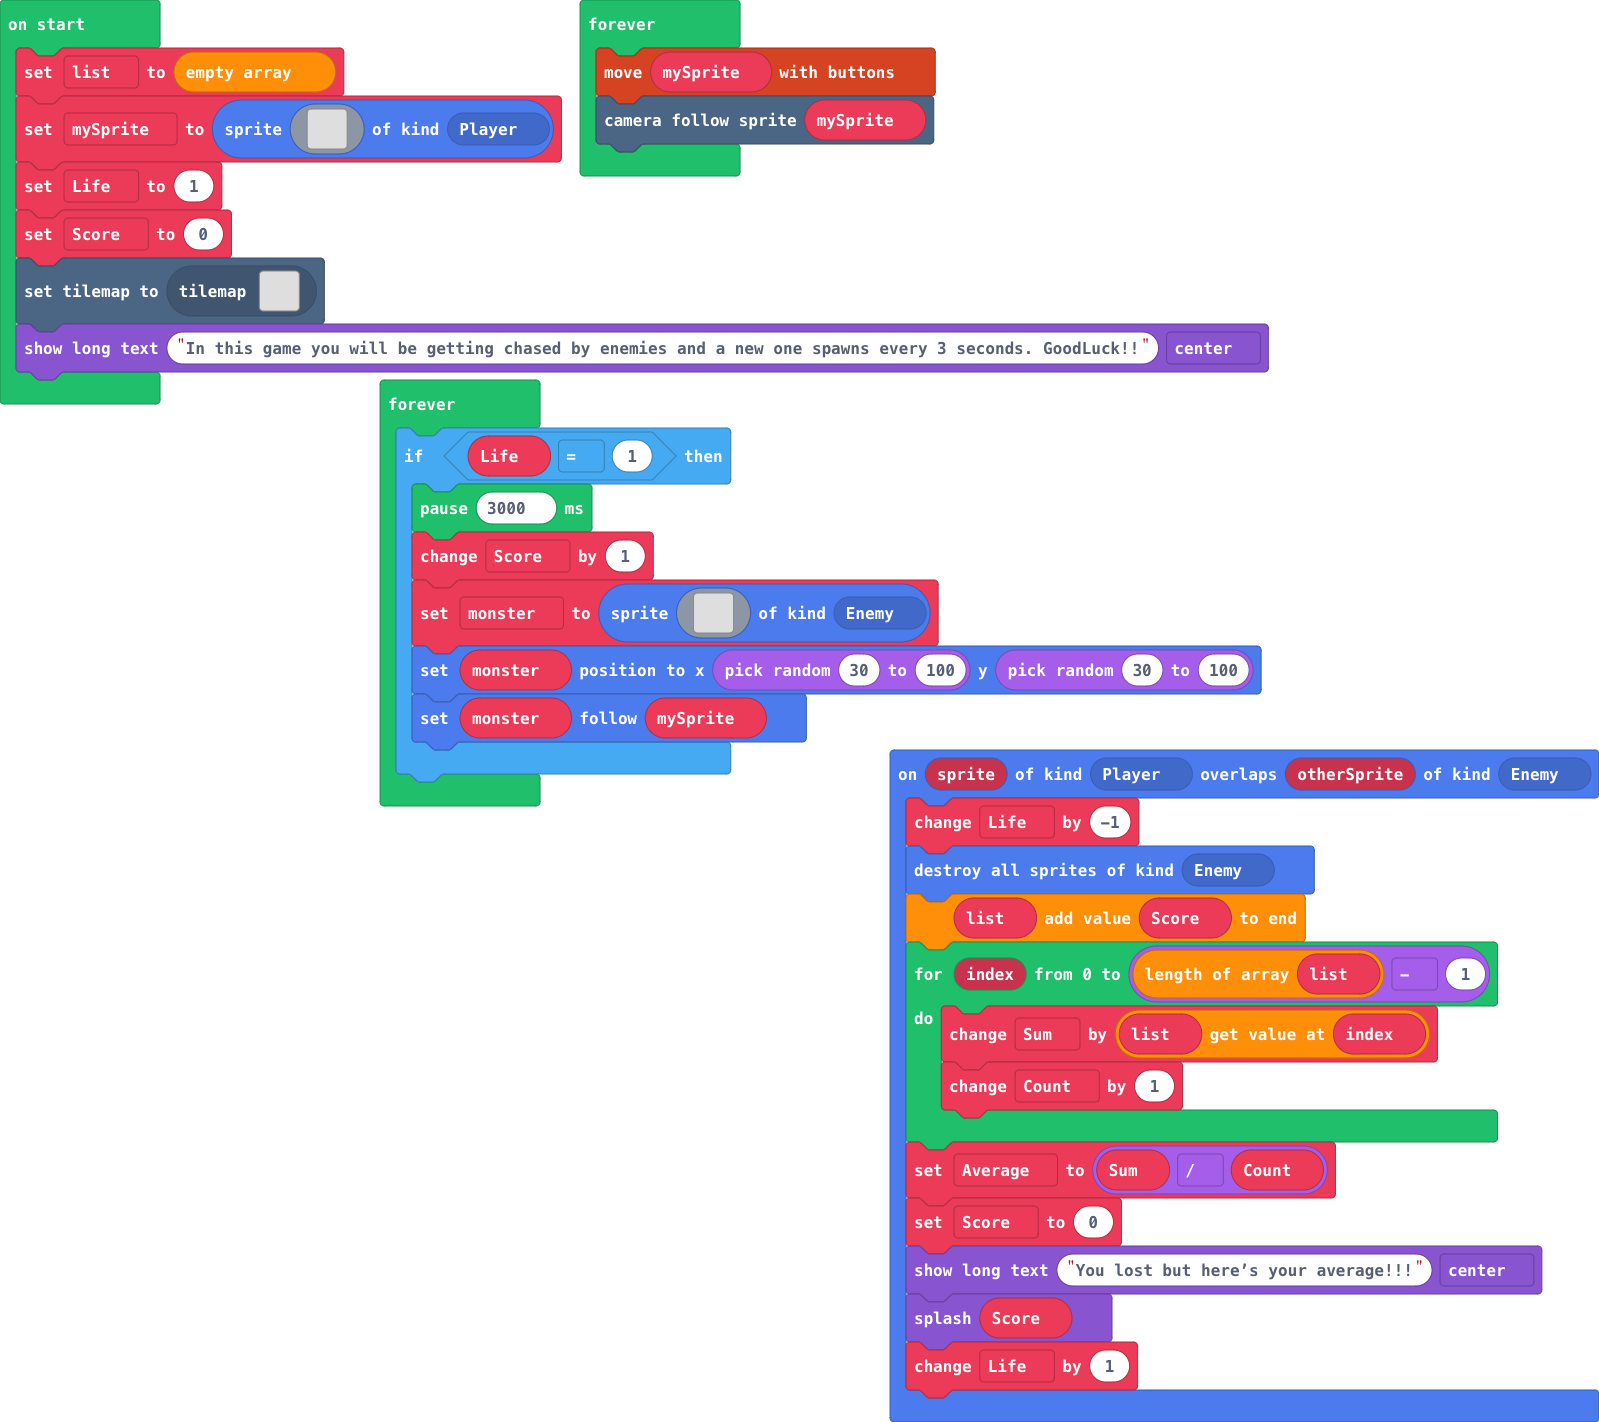
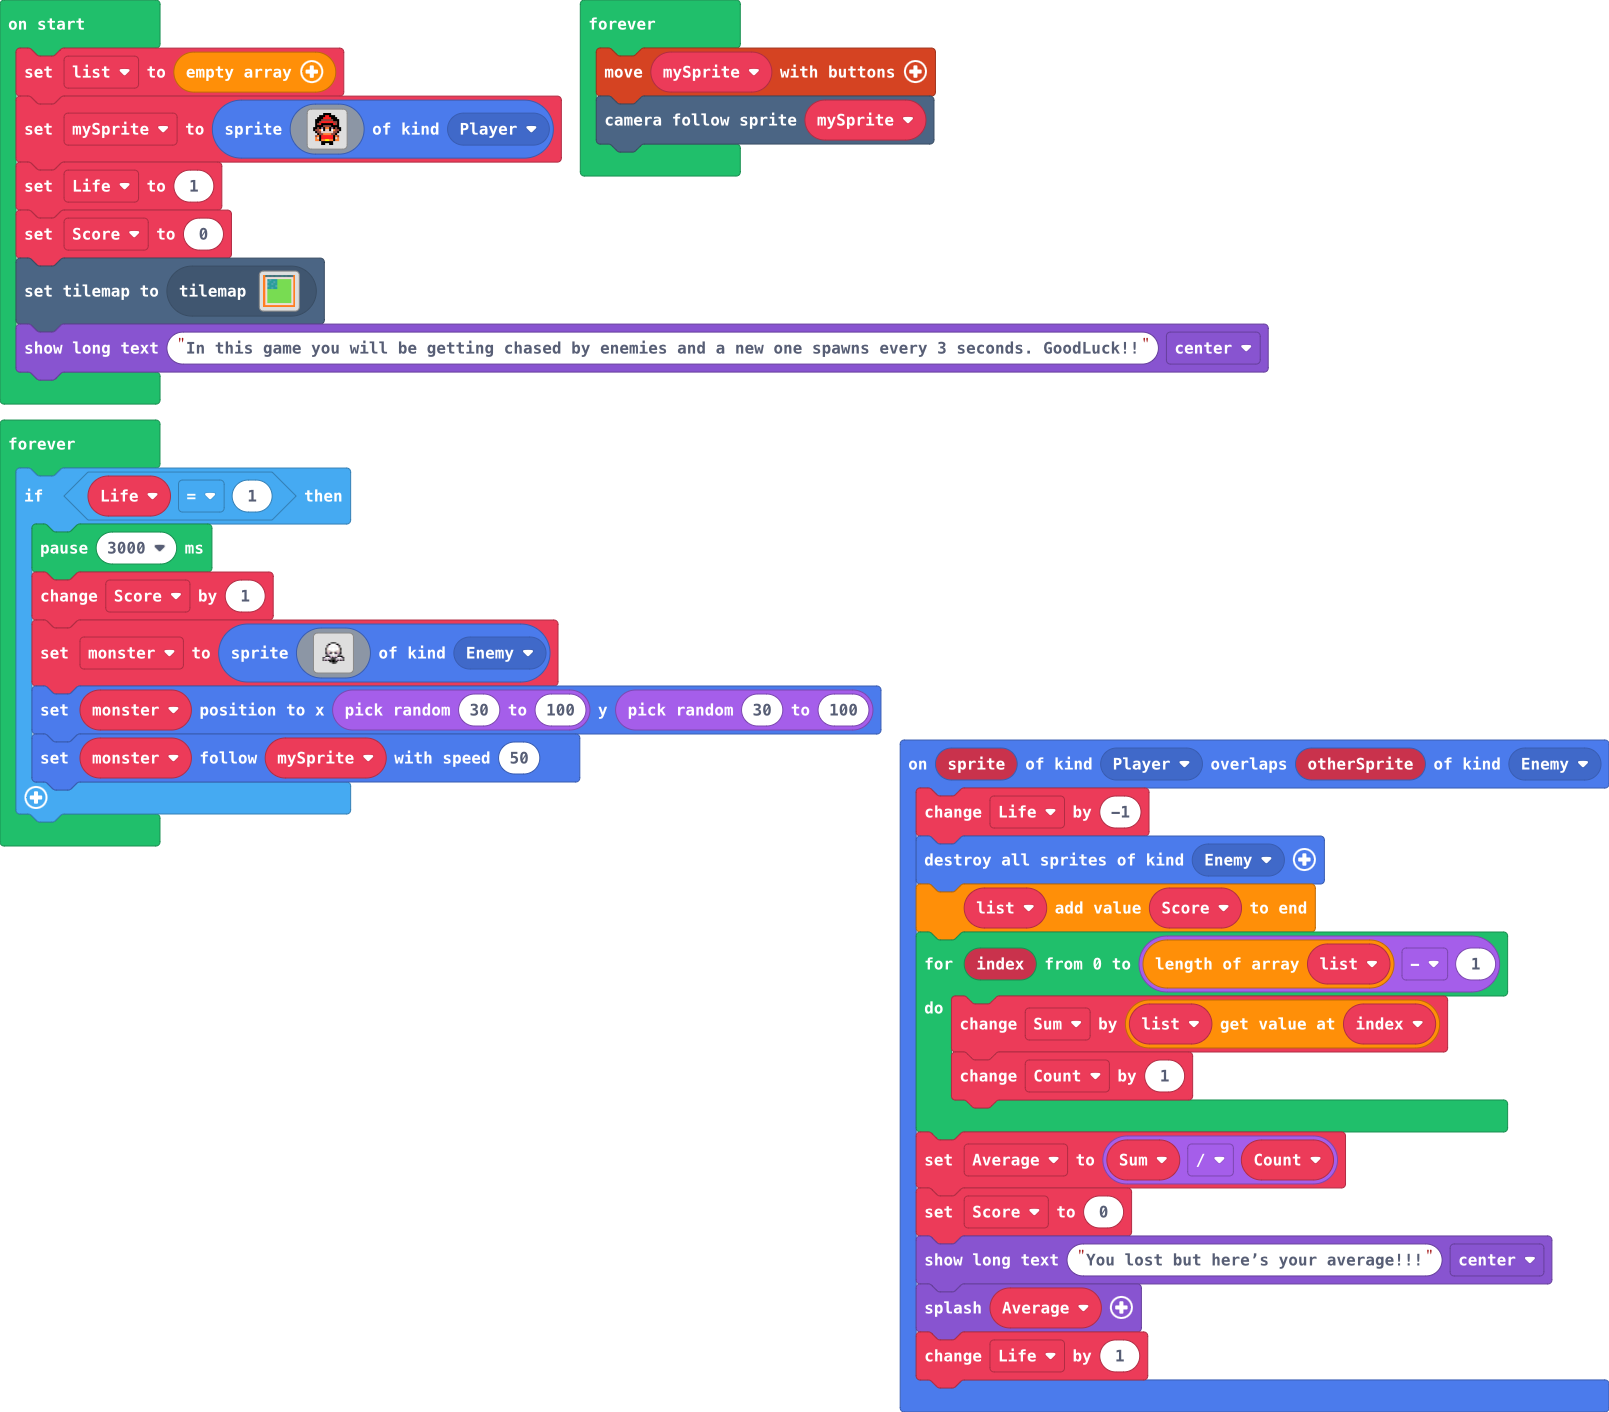
Update main.blocks, main.ts

Changed region(s): [[0.0, 0.0, 1.0, 1.0]]

diff --git a/main.ts b/main.ts
@@ -9,7 +9,7 @@ sprites.onOverlap(SpriteKind.Player, SpriteKind.Enemy, function (sprite, otherSp
     Average = Sum / Count
     Score = 0
     game.showLongText("You lost but here’s your average!!!", DialogLayout.Center)
-    game.splash(Score)
+    game.splash(Average)
     Life += 1
 })
 let monster: Sprite = null
@@ -76,6 +76,6 @@ forever(function () {
             ........................
             `, SpriteKind.Enemy)
         monster.setPosition(randint(30, 100), randint(30, 100))
-        monster.follow(mySprite)
+        monster.follow(mySprite, 50)
     }
 })
